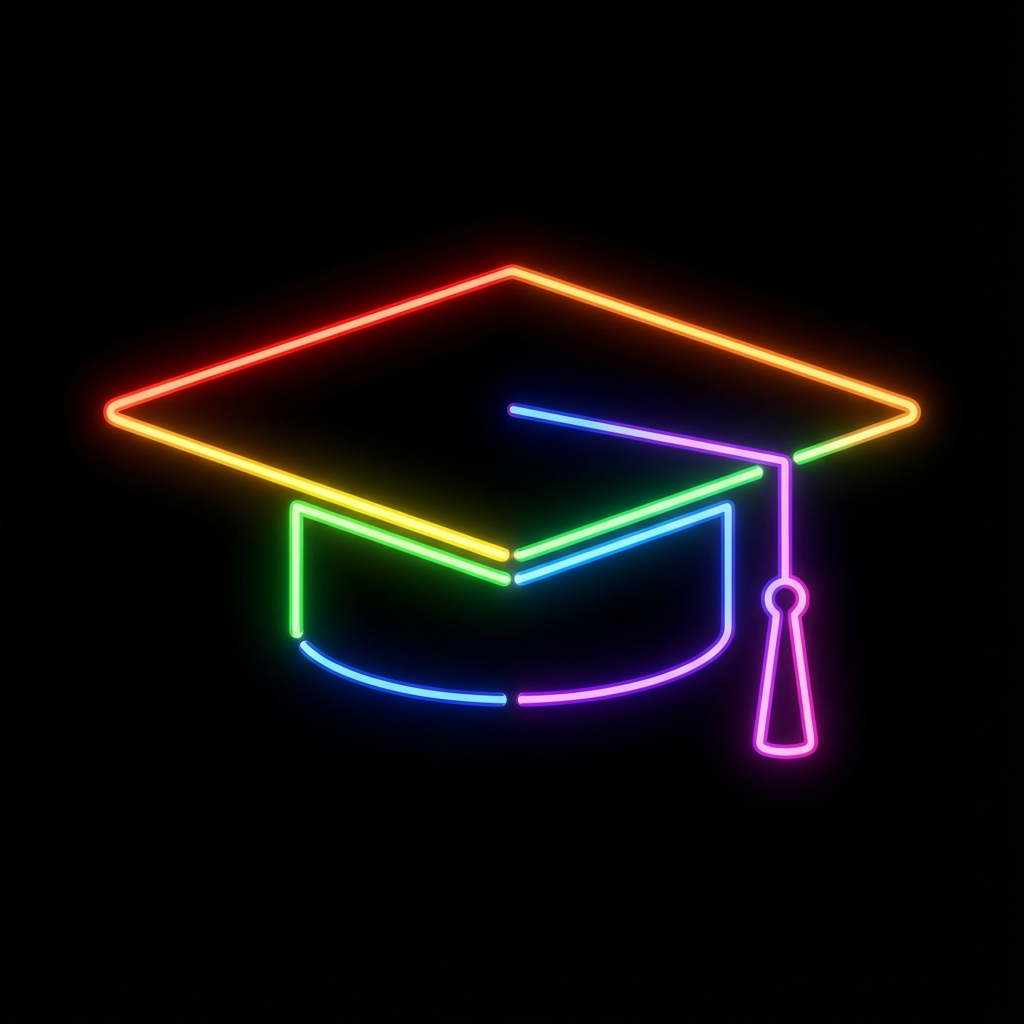
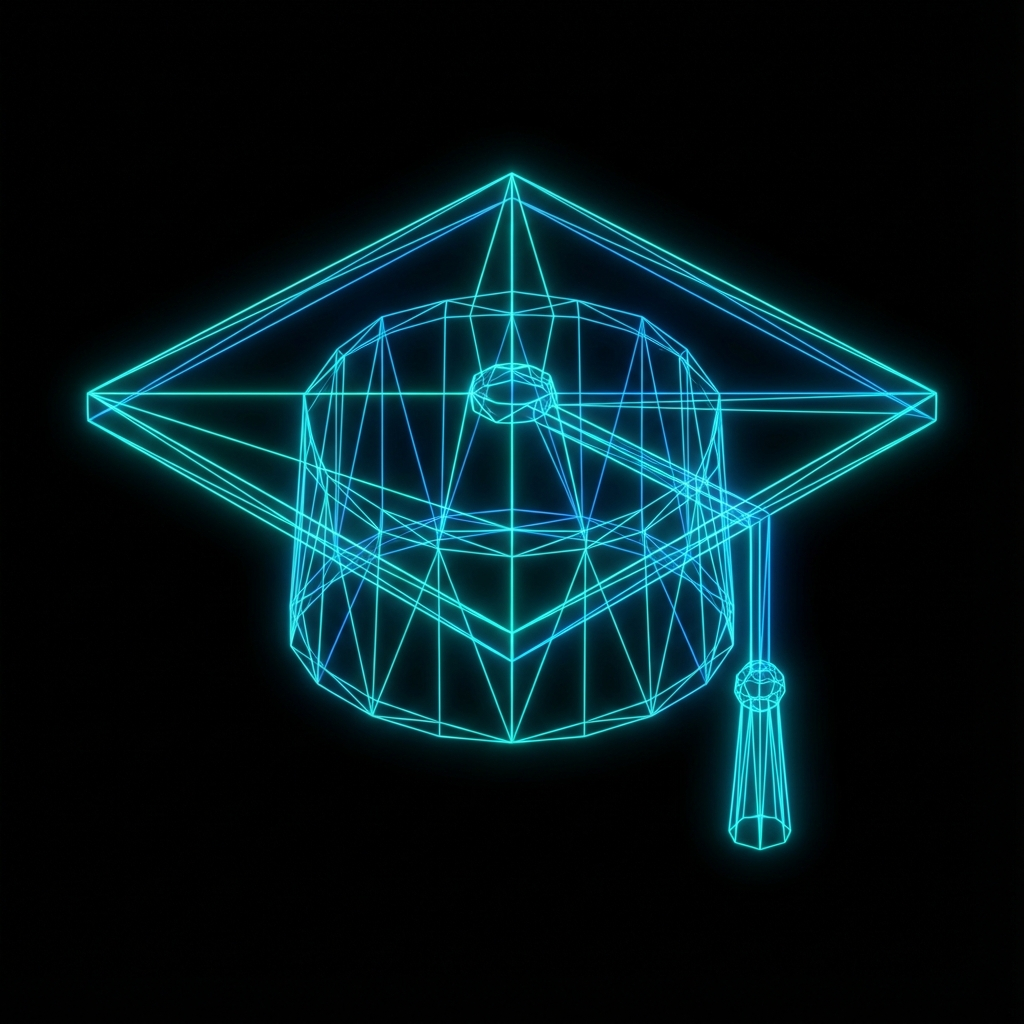
UI Polish: Neon Hat & Cross-Browser PWA Button

diff --git a/components/InstallPWA.tsx b/components/InstallPWA.tsx
@@ -43,8 +43,10 @@ export default function InstallPWA({ type }: InstallPWAProps) {
         }
 
         if (!deferredPrompt) {
-            toast('App installation not ready yet. Try again in a moment or use browser menu.', {
-                icon: '⏳',
+            // Generic help for Firefox or when prompt isn't ready
+            toast('To install: Open browser menu (⋮ or ≡) and select "Install App" or "Add to Home Screen"', {
+                icon: 'ℹ',
+                duration: 6000
             });
             return;
         }
@@ -58,15 +60,8 @@ export default function InstallPWA({ type }: InstallPWAProps) {
         }
     };
 
-    // if (isInstalled) return null; // keep verification easy for now
-    // if (!deferredPrompt && !isIOS) return null; 
-
-    // Helper to determine if we should show button:
-    // For specific user request, let's ALWAYS show it but give feedback if not ready.
-    // In production, you might want to hide it if (isInstalled).
-
     if (isInstalled) {
-        if (type === 'admin') return null; // Admin header doesn't need "App Installed" text
+        if (type === 'admin') return null;
         return (
             <div className="flex justify-center mt-6 mb-8 text-gray-500 text-xs">
                 App Installed
@@ -95,10 +90,6 @@ export default function InstallPWA({ type }: InstallPWAProps) {
     }
 
     if (type === 'admin') {
-        // Only show admin header button if actually inst-allable (or iOS instructions)
-        // This prevents the "Not ready" toast frustration
-        if (!deferredPrompt && !isIOS) return null;
-
         return (
             <button
                 onClick={handleInstall}

diff --git a/app/page.tsx b/app/page.tsx
@@ -19,7 +19,7 @@ export default function Home() {
 
           {/* Hero Section */}
           <div className="text-center flex flex-col items-center gap-2">
-            <div className="relative w-full max-w-md mx-auto h-32 sm:h-40 md:h-56 flex items-center justify-center">
+            <div className="relative w-full max-w-md mx-auto h-32 sm:h-40 md:h-56 flex items-center justify-center mix-blend-screen">
               <Image
                 src="/grad-hat-glow.png"
                 alt="Portal Gateway"
